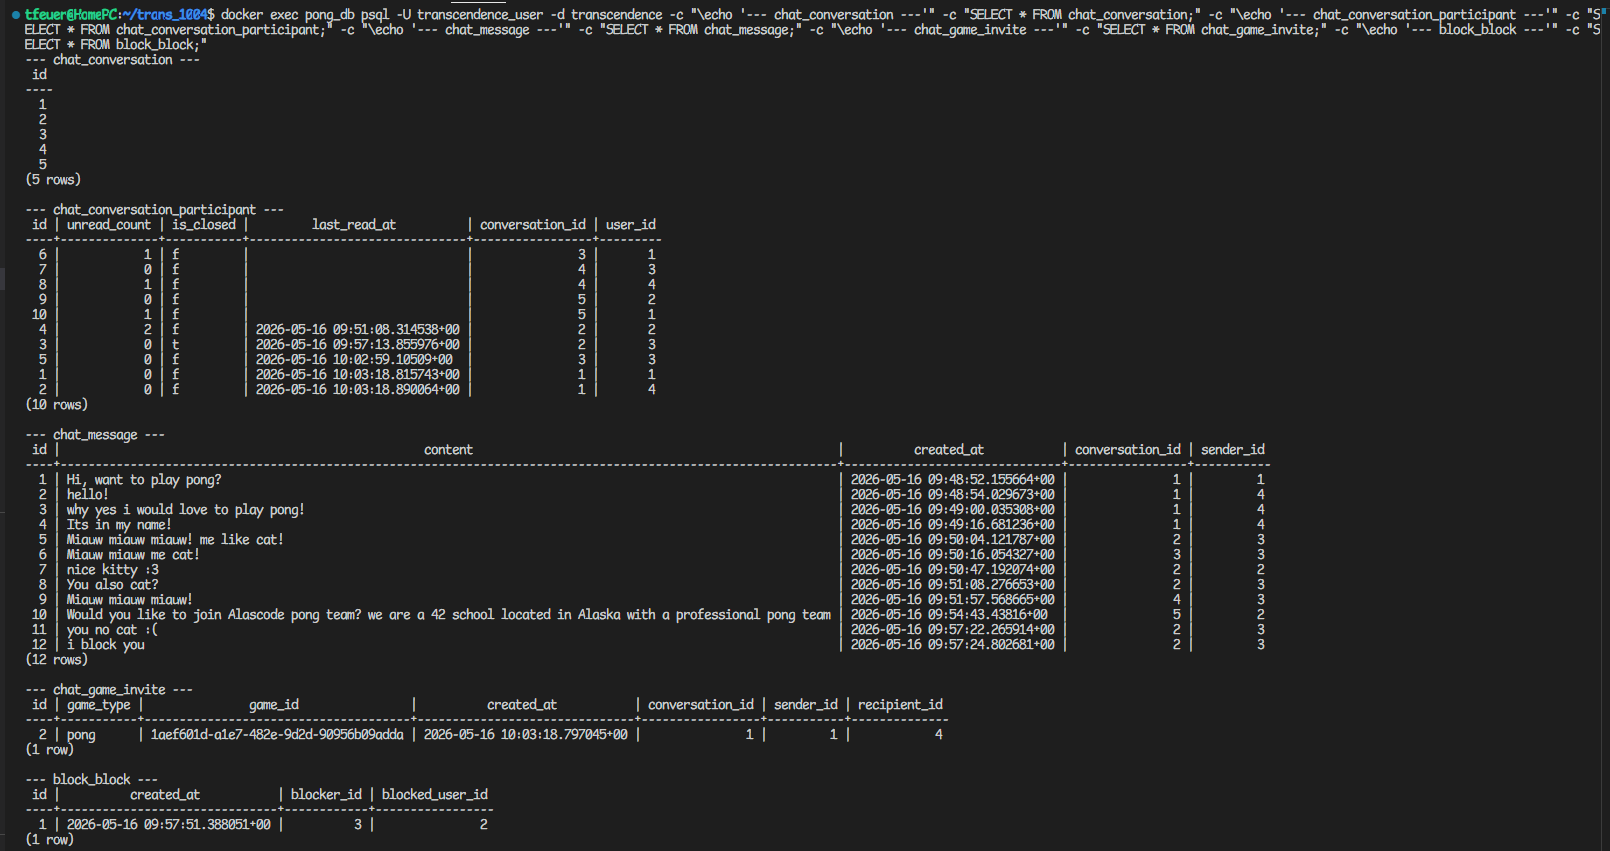
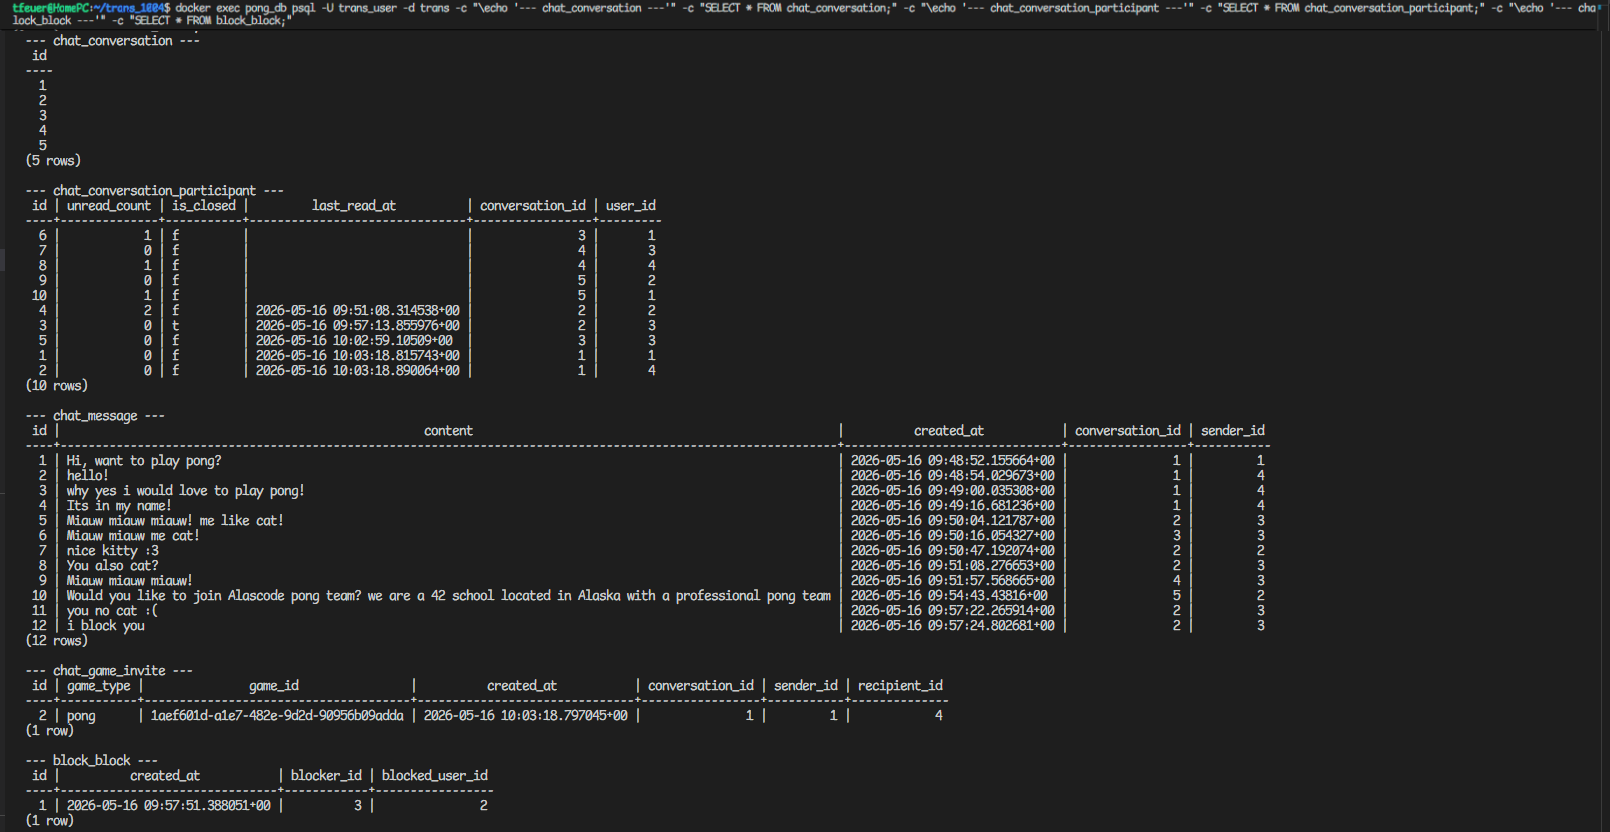
docs: update README schema references after custom user model introduced in PR #171
- Rename auth_user → users_userprofile in all diagrams
- Fix image filenames to match actual files in docs/images
- Add DOM structure tree for chatContainer under Chat UI section

diff --git a/README.md b/README.md
@@ -110,7 +110,7 @@ The database is PostgreSQL. The schema is split into three diagrams by domain.
 
 Centres on `auth_user`. Friend requests and blocks are direct user-to-user relationships. Chat is built around a `Conversation` container — messages, participants, and game invites all hang off it. `ConversationParticipant` tracks per-user state (unread count, read timestamp, tab visibility).
 
-![Chat, Friends & Block](docs/images/chat_social.png)
+![Chat, Friends & Block](docs/images/chat_diagram.png)
 
 ##### Example Data
 
@@ -122,13 +122,13 @@ Sample data from a test session (users: tamar=1, Alascode331=2, The_cat=3, PongL
 
 Each user gets a `stats_players` profile (auto-created on registration) that accumulates pong stats and ELO. Matches reference players, not users directly. Achievements are defined once in `stats_achievements` and linked to players via `stats_player_achievements`. Chess has its own parallel player and match tables with separate ELO tracking.
 
-![Pong Stats & Chess](docs/images/stats_chess.png)
+![Pong Stats & Chess](docs/images/stats-chess_diagram.png)
 
 #### Tournament
 
 A `Tournament` is created by a user and has many `TournamentParticipant` rows (one per registered player) and many `TournamentGame` rows (one per match in the bracket). Games reference users directly and track round, status, and the external `game_id` used to link to the live pong session.
 
-![Tournament](docs/images/tournament.png)
+![Tournament](docs/images/tournament_diagram.png)
 
 
 ### Feature List
@@ -468,6 +468,26 @@ The chat system is a persistent WebSocket overlay that stays alive across SPA na
 ##### UI
 
 ![Chat UI](docs/images/chat-ui.png)
+
+**DOM structure of `chatContainer`:**
+```
+chatContainer
+├── chatHeader
+│   ├── channelTabs        (Global tab + DM tabs)
+│   └── closeChatBtn
+└── chatContent
+    ├── usersSidebar
+    │   └── onlineUsersList
+    └── chatPanel
+        ├── channelTitle
+        ├── chatMessages
+        ├── typingIndicator
+        └── chatInputWrapper
+            ├── chatInput
+            ├── blockNotice
+            ├── charCounter
+            └── sendChatBtn
+```
 
 The chat window is a fixed overlay rendered in `index.html`, outside the SPA's `#app-root`. It stays mounted and connected across all page navigations. Everything inside it is dynamically rendered by JavaScript:
 
